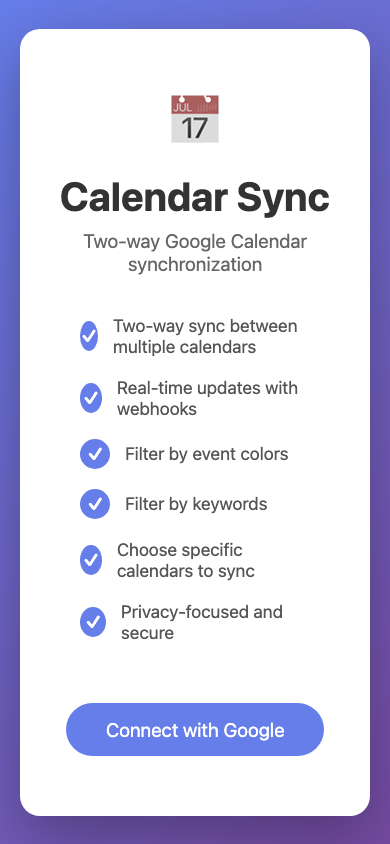
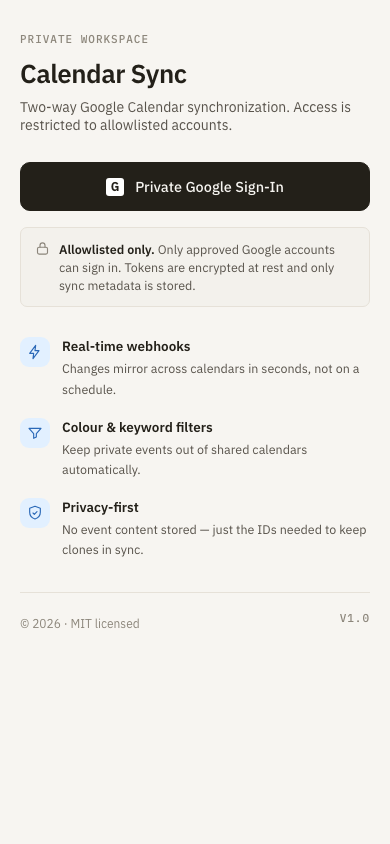
Update README screenshots for refreshed UI

diff --git a/README.md b/README.md
@@ -6,6 +6,8 @@ A two-way Google Calendar synchronization application that allows you to sync ev
 
 ## Screenshots
 
+Screenshots use fictional calendar names and example email addresses.
+
 ### Home (Desktop)
 
 ![Home desktop](docs/screenshots/home-desktop.png)
@@ -14,9 +16,9 @@ A two-way Google Calendar synchronization application that allows you to sync ev
 
 ![Home mobile](docs/screenshots/home-mobile.png)
 
-### Dashboard (Unauthenticated Redirect View)
+### Dashboard (Syncs)
 
-![Dashboard unauthenticated](docs/screenshots/dashboard-unauth.png)
+![Dashboard syncs](docs/screenshots/dashboard-overview.png)
 
 ## Features
 
@@ -135,8 +137,8 @@ PUBLIC_URL=https://calendar.samiabid.com
 GOOGLE_REDIRECT_URI=https://calendar.samiabid.com/auth/google/callback
 NODE_ENV=production
 INTERNAL_CRON_TOKEN=<long-random-string>
-ALLOWED_LOGIN_EMAILS=hello@pointillist.org
-ALLOWED_GOOGLE_ACCOUNT_EMAILS=hello@pointillist.org,sami@solvaa.co.uk
+ALLOWED_LOGIN_EMAILS=owner@example.com
+ALLOWED_GOOGLE_ACCOUNT_EMAILS=owner@example.com,work@example.com
 ```
 
 `GOOGLE_REDIRECT_URI` can be omitted if `PUBLIC_URL` is set, but Google Cloud must still allow:
@@ -204,8 +206,8 @@ The canonical production URL is `https://calendar.samiabid.com`. When moving the
    ```bash
    PUBLIC_URL=https://calendar.samiabid.com
    GOOGLE_REDIRECT_URI=https://calendar.samiabid.com/auth/google/callback
-   ALLOWED_LOGIN_EMAILS=hello@pointillist.org
-   ALLOWED_GOOGLE_ACCOUNT_EMAILS=hello@pointillist.org,sami@solvaa.co.uk
+   ALLOWED_LOGIN_EMAILS=owner@example.com
+   ALLOWED_GOOGLE_ACCOUNT_EMAILS=owner@example.com,work@example.com
    ```
 5. Update Google Cloud OAuth settings with authorized domain `samiabid.com`, origin `https://calendar.samiabid.com`, and redirect URI `https://calendar.samiabid.com/auth/google/callback`.
 6. Update GitHub Actions secret `APP_BASE_URL=https://calendar.samiabid.com`.
